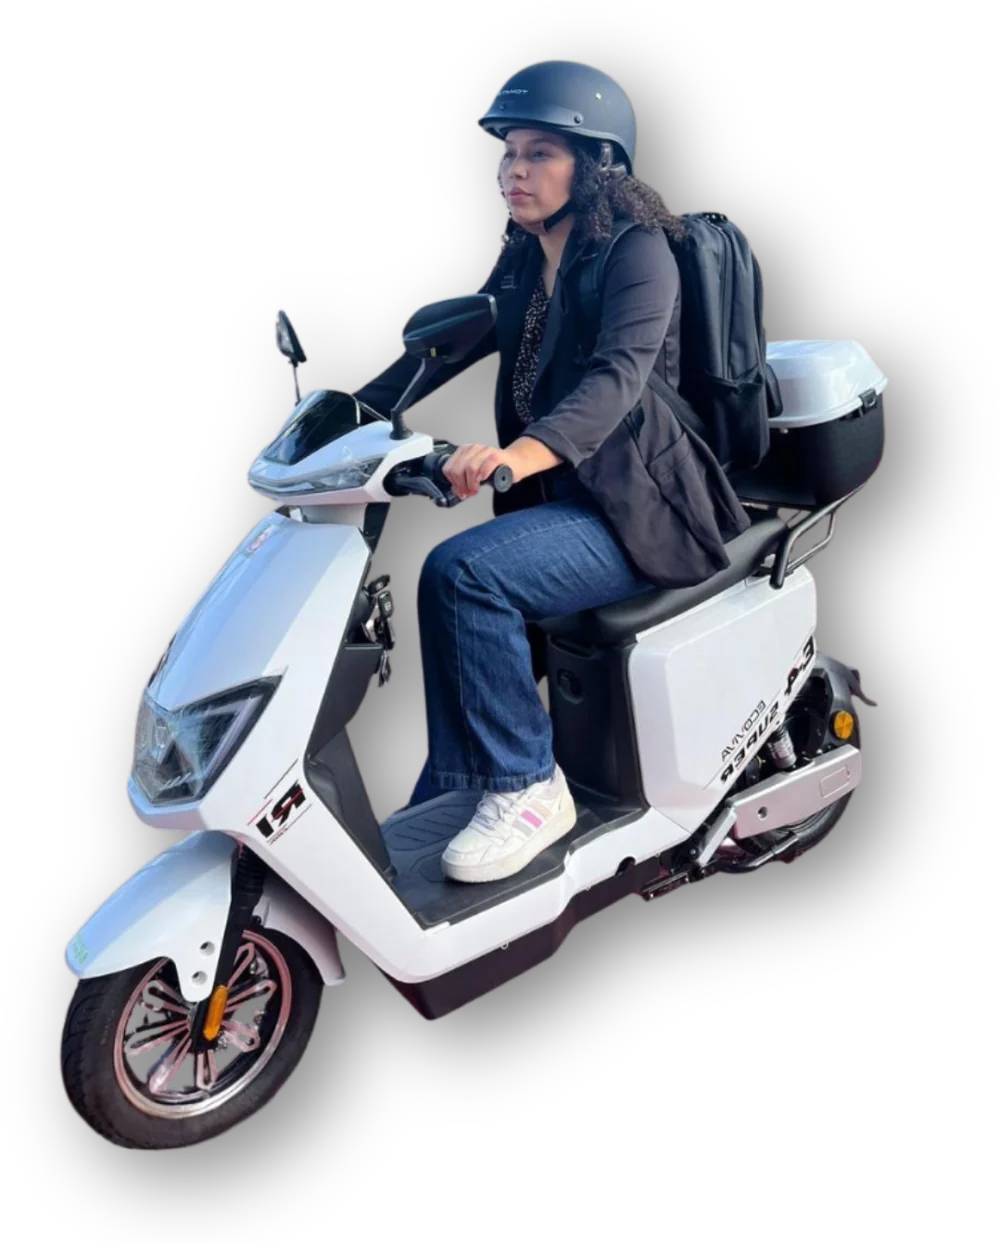
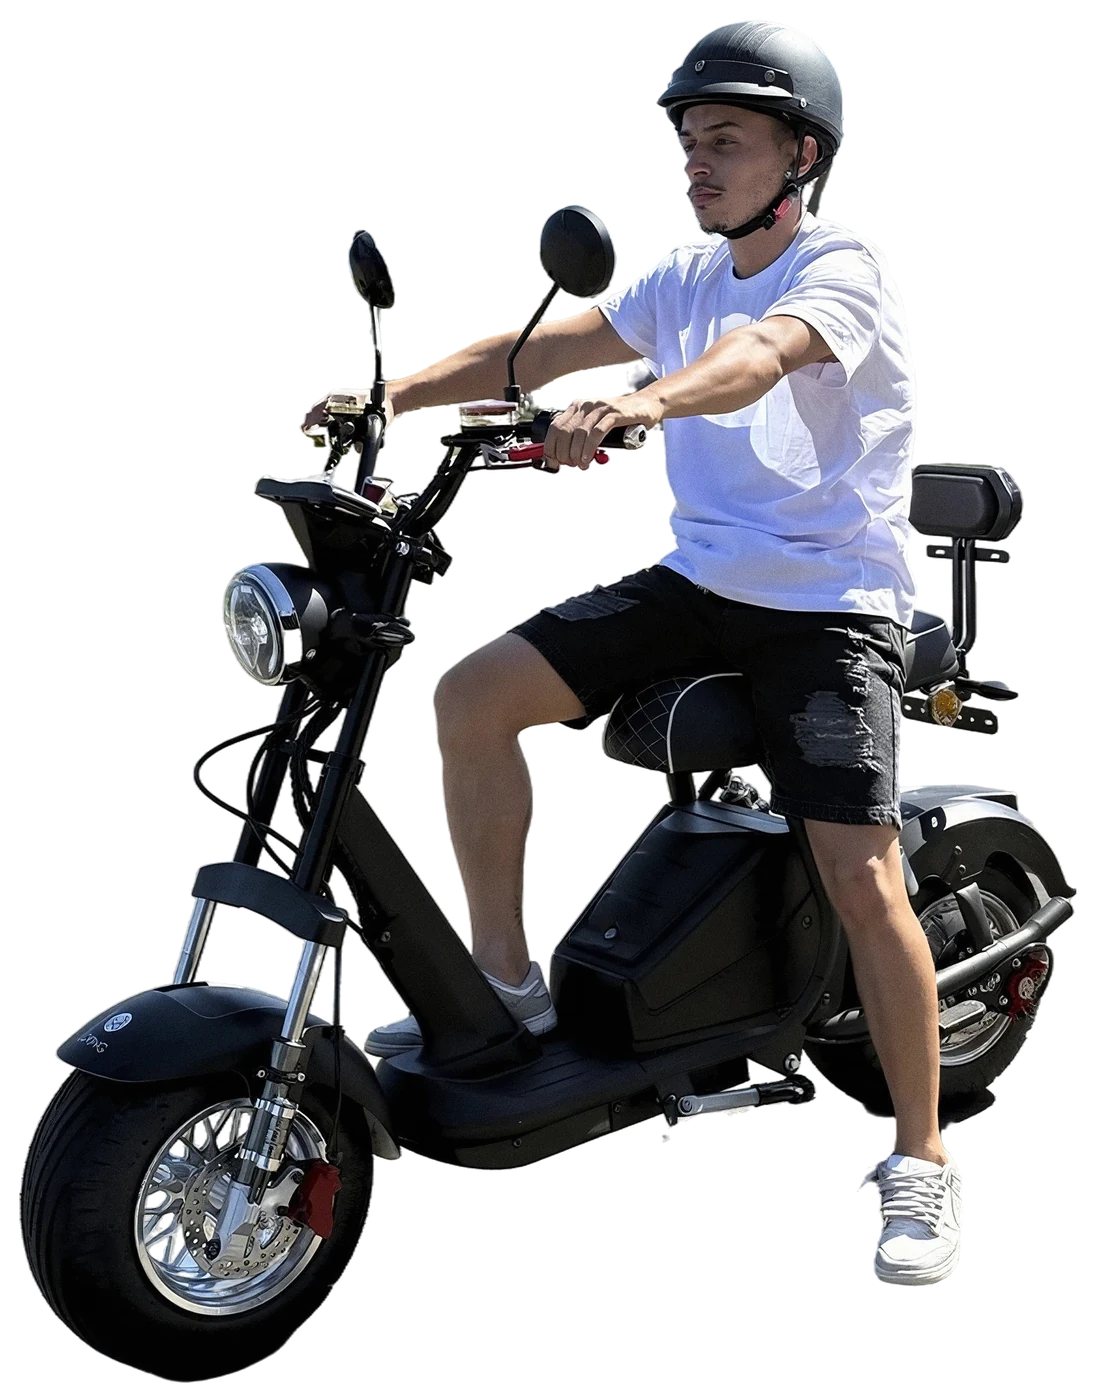
Inverte hero no mobile e troca a foto principal
- Mobile: texto vem antes da foto (removido order-first)
- Nova foto do hero a partir da foto real de pilotagem que a loja
  ja tinha, com upscale e fundo removido (1096x1400, WebP)
- Halo lime reforcado + rim light no recorte para separar a scooter
  preta do fundo escuro
- Chip "Loja fisica + oficina" movido para o topo esquerdo (cobria o
  rosto) e imagem reduzida no mobile para liberar as bordas dos chips

Claude-Session: https://claude.ai/code/session_01VYFytLus4BjZVhnc5ZvfQh

diff --git a/src/components/site/Hero.tsx b/src/components/site/Hero.tsx
@@ -84,26 +84,27 @@ export function Hero() {
           </ul>
         </div>
 
-        <div className="relative order-first lg:order-none">
+        <div className="relative">
           <div
             className="relative animate-hero-in"
             style={{ transform: `translate3d(0, ${offset * -0.05}px, 0)` }}
           >
-            {/* Halo por trás do recorte */}
-            <div className="pointer-events-none absolute inset-x-4 top-10 bottom-10 rounded-[50%] bg-lime/18 blur-3xl" />
-            <div className="pointer-events-none absolute inset-x-8 bottom-6 h-10 rounded-[50%] bg-ink/70 blur-2xl" />
+            {/* Halo por trás do recorte — separa a scooter escura do fundo ink */}
+            <div className="pointer-events-none absolute inset-x-2 top-6 bottom-8 rounded-[50%] bg-lime/22 blur-3xl" />
+            <div className="pointer-events-none absolute inset-x-10 top-1/4 bottom-1/4 rounded-[50%] bg-ink-foreground/10 blur-3xl" />
+            <div className="pointer-events-none absolute inset-x-8 bottom-4 h-10 rounded-[50%] bg-ink/80 blur-2xl" />
 
             <img
               src={heroRider}
-              alt="Cliente da Scooter & Cia pilotando uma scooter elétrica branca"
-              width={1000}
-              height={1244}
+              alt="Cliente da Scooter & Cia pilotando uma scooter elétrica"
+              width={1096}
+              height={1400}
               fetchPriority="high"
               decoding="async"
-              className="relative mx-auto w-full max-w-sm drop-shadow-2xl sm:max-w-md lg:max-w-none"
+              className="relative mx-auto w-[74%] max-w-[17rem] [filter:drop-shadow(0_0_1px_oklch(0.97_0.01_140/0.55))_drop-shadow(0_0_26px_oklch(0.87_0.21_128/0.28))_drop-shadow(0_28px_44px_oklch(0_0_0/0.55))] sm:w-full sm:max-w-md lg:max-w-none"
             />
 
-            <div className="glass-chip animate-float-soft absolute bottom-2 left-0 rounded-2xl px-4 py-3 sm:left-2 sm:px-5 sm:py-4 lg:bottom-6">
+            <div className="glass-chip animate-float-soft absolute bottom-0 left-0 rounded-2xl px-4 py-3 sm:px-5 sm:py-4 lg:bottom-2">
               <p className="text-[0.6rem] font-semibold tracking-[0.18em] text-ink-foreground/60 uppercase">
                 Condição
               </p>
@@ -111,7 +112,7 @@ export function Hero() {
               <p className="text-[0.7rem] text-ink-foreground/70 sm:text-xs">no cartão</p>
             </div>
 
-            <div className="glass-chip absolute top-2 right-0 flex items-center gap-2 rounded-full px-3 py-2 sm:right-2 sm:px-4 sm:py-2.5">
+            <div className="glass-chip absolute top-0 left-0 flex items-center gap-2 rounded-full px-3 py-2 sm:left-2 sm:px-4 sm:py-2.5 lg:top-4">
               <ShieldCheck className="size-4 shrink-0 text-lime" />
               <span className="text-[0.7rem] font-semibold text-ink-foreground/85 sm:text-xs">
                 Loja física + oficina
@@ -120,7 +121,7 @@ export function Hero() {
 
             <a
               href="#clientes"
-              className="glass-chip absolute right-0 bottom-2 flex items-center gap-1.5 rounded-full px-3 py-2 transition-colors hover:border-lime/40 sm:right-2 lg:bottom-6"
+              className="glass-chip absolute right-0 bottom-0 flex items-center gap-1.5 rounded-full px-3 py-2 transition-colors hover:border-lime/40 lg:bottom-2"
             >
               <Star className="size-3.5 shrink-0 fill-lime text-lime" />
               <span className="text-[0.7rem] font-semibold text-ink-foreground/85 sm:text-xs">
